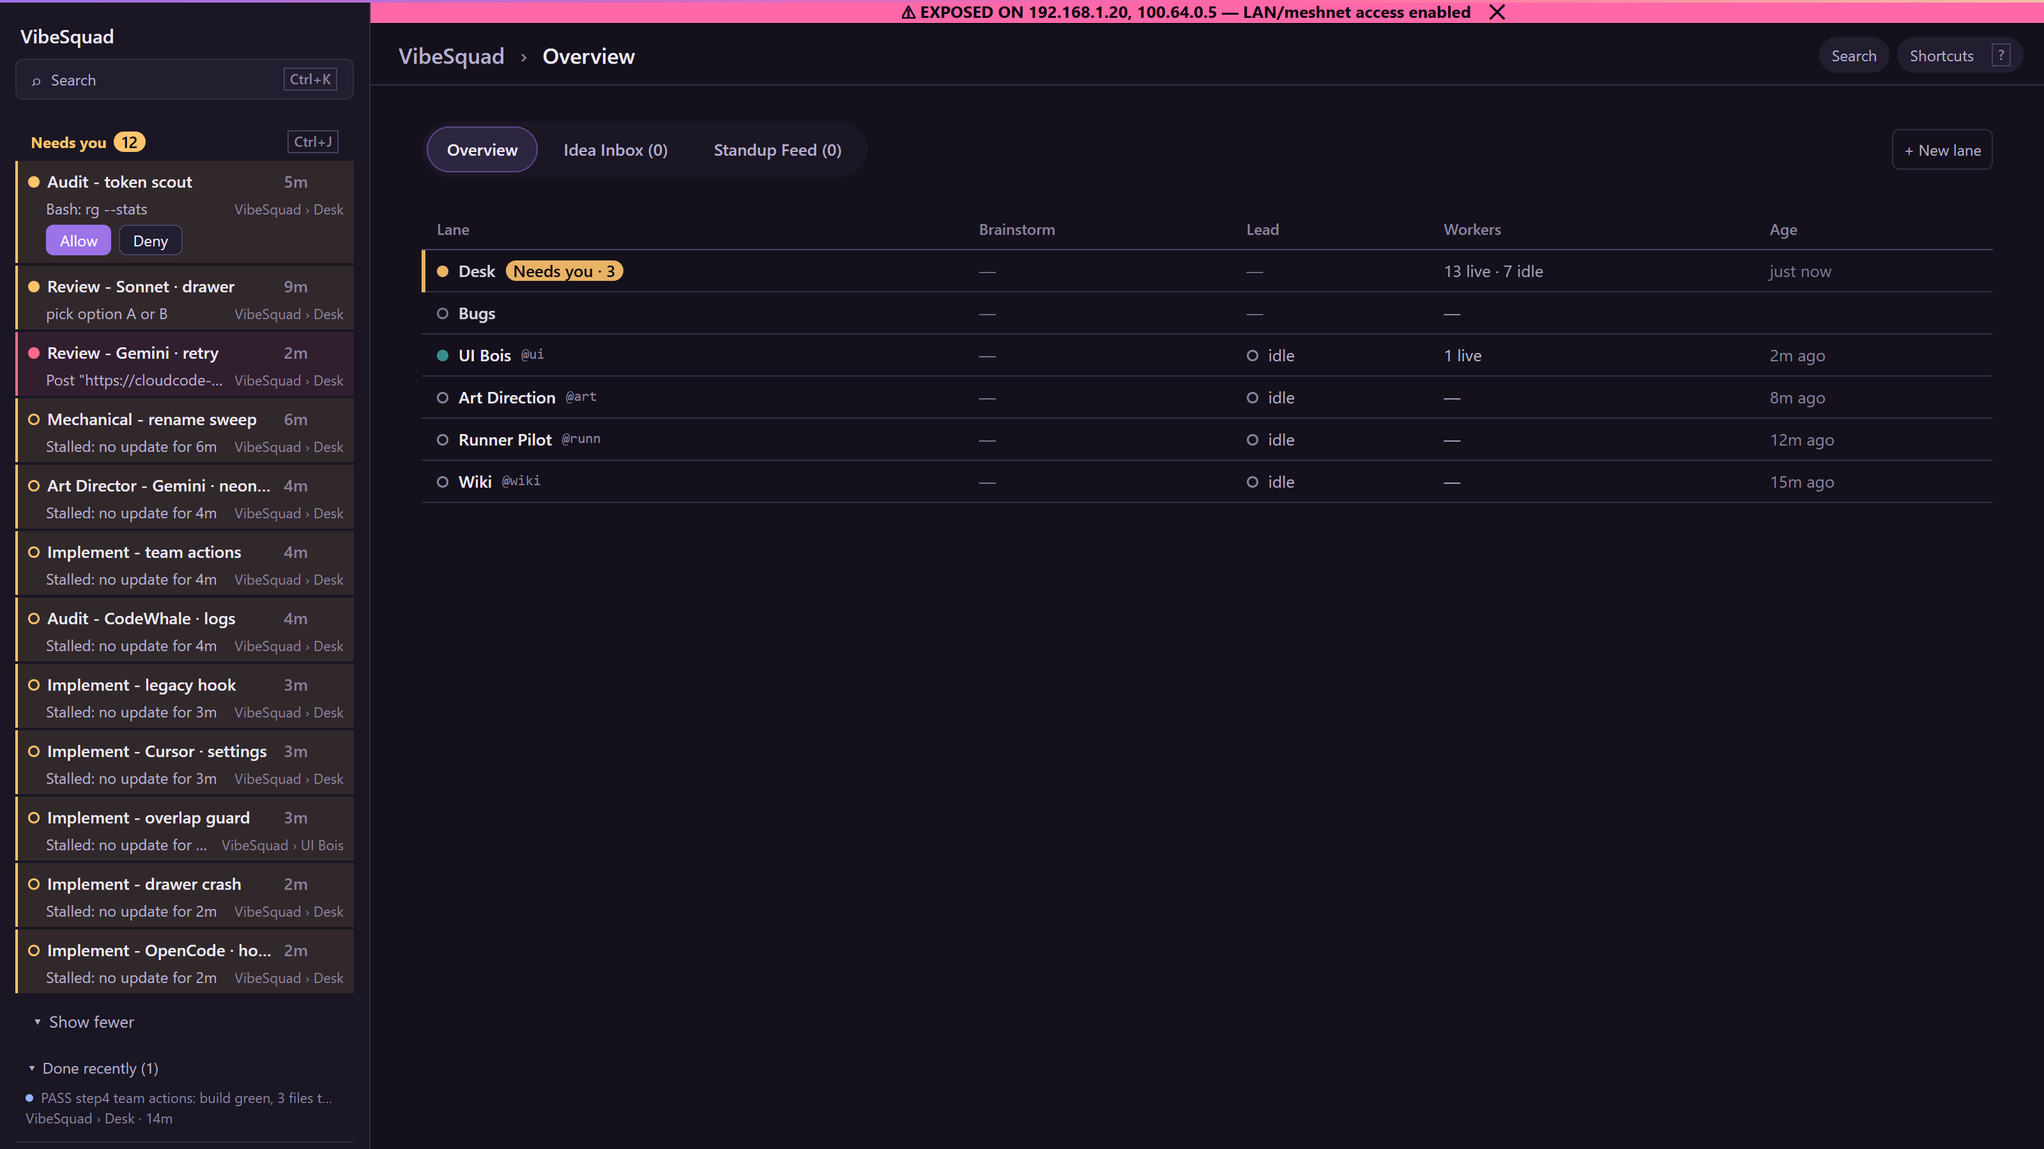
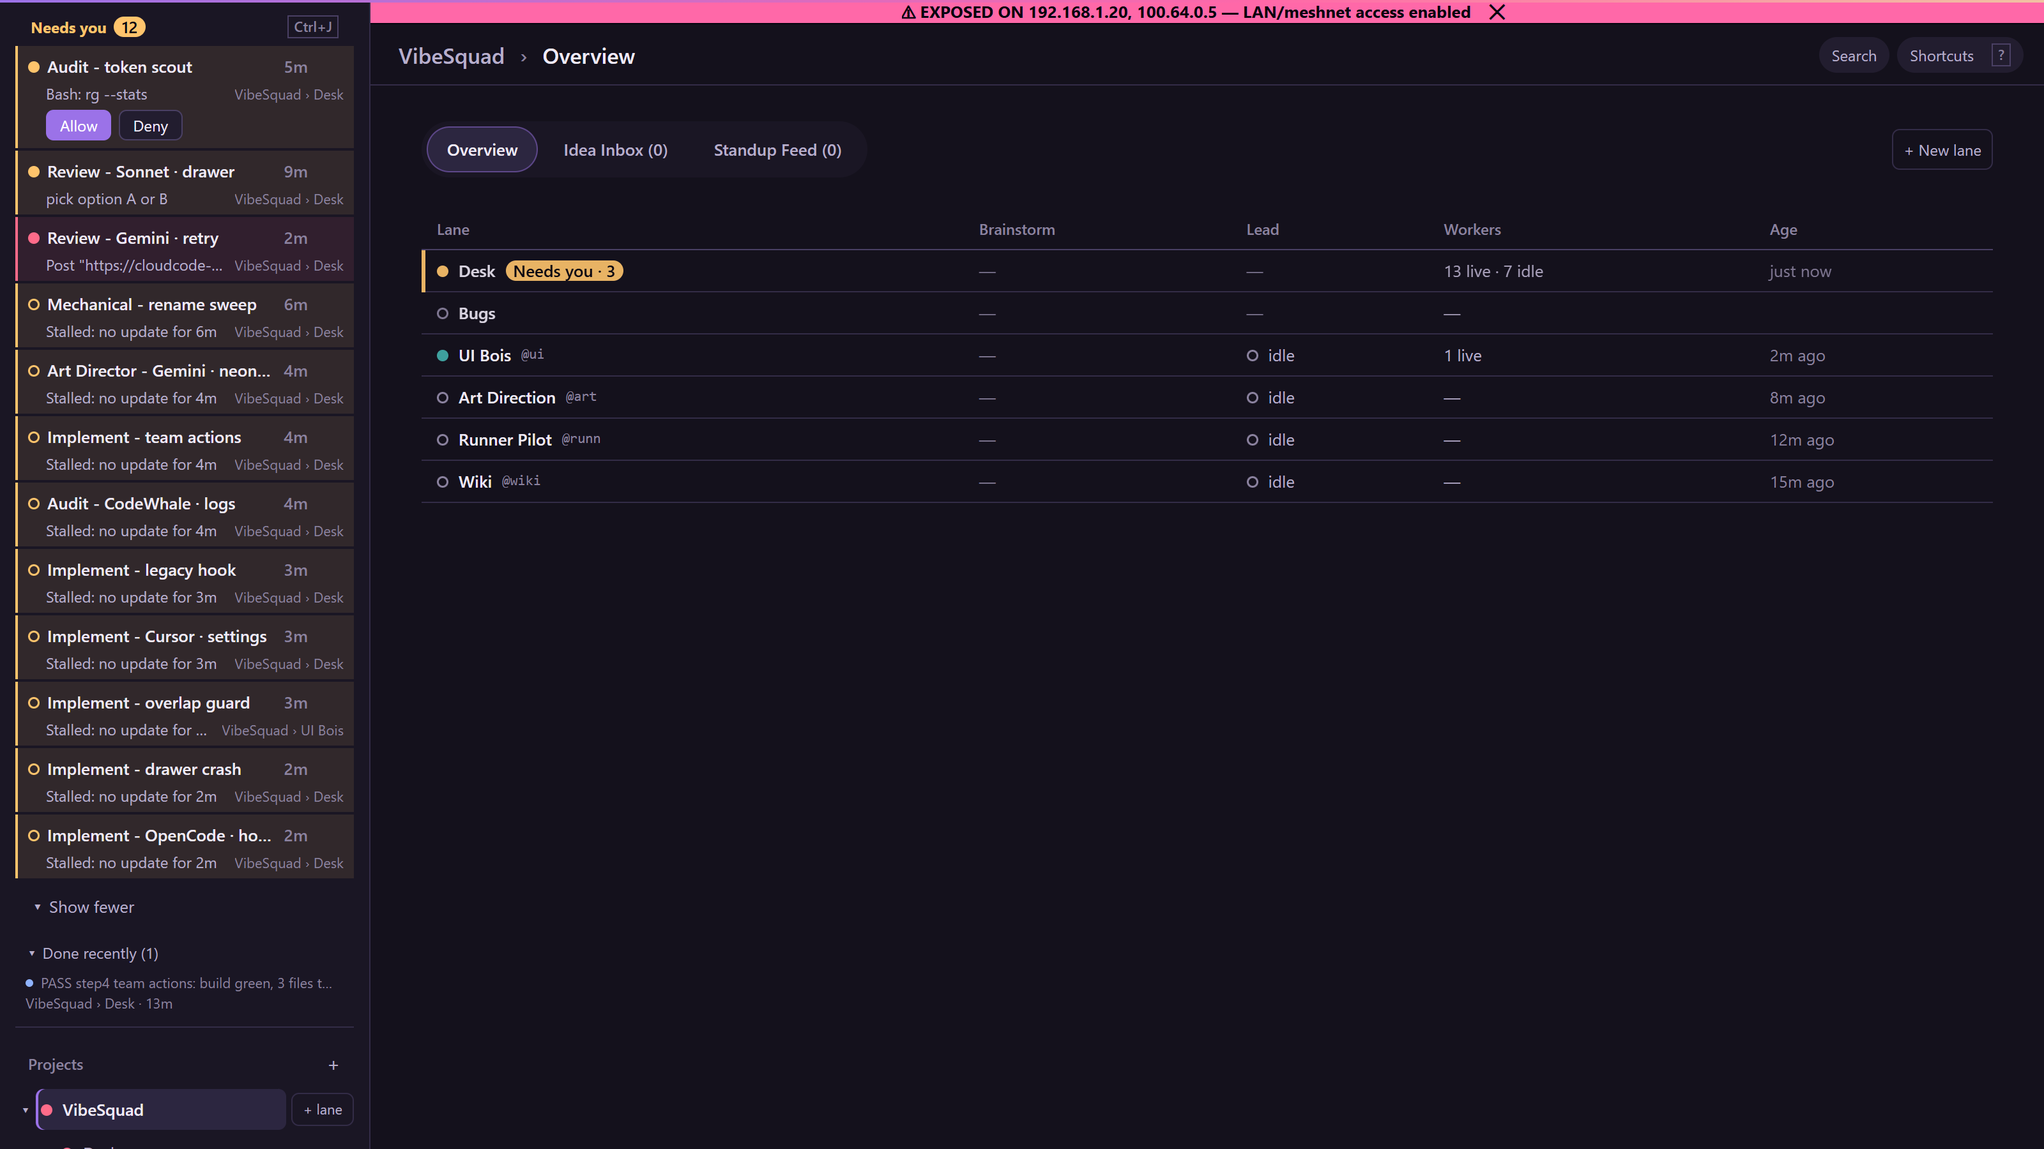
Desk R2 Unit 2 r3: code-review fixes (H2, M2, L1, L2)
- H2: drop regex legacyLeadTitle; needsYouTitle names leads/Buddies via formatDisplayTitle from member
  labels (hub lead = Overlord), falling back to cleanTitle. Tests use the real identity.ts with the
  demo strings "★ MAIN GAME ord75" and "★ LEAD · Plugins".
- M2: stalled dismiss keyed to stalled:<updatedAt>; BoringInbox ticks `now` every 30s.
- L1: project dot uses m.totalNeedsYou like its badge.
- L2: shots expand Desk + a lane (worker reason/tint), hover menu on a non-permission row,
  plus *-crop.png sidebar-only versions.

Changed region(s): [[0.0, 0.0, 0.1562, 0.9956], [0.125, 0.0311, 0.1875, 0.0933]]

diff --git a/src/BoringInbox.tsx b/src/BoringInbox.tsx
@@ -1,9 +1,10 @@
 import { useEffect, useState } from "react";
-import { answerItem, attentionItems, clearItem, formatAge, itemSince, laterItem, legacyLeadTitle, type AttentionDeps, type AttentionItem } from "./attentionItems";
+import { answerItem, attentionItems, clearItem, formatAge, itemSince, laterItem, type AttentionDeps, type AttentionItem } from "./attentionItems";
 import { clearUnreadLocal, dismissLocal, snoozeLocal } from "./attentionLocal";
 import type { FeedEntry } from "./demo";
 import { bumpAgents, clearAgentAttention, clearNeedsYou, snoozeNeedsYou } from "./paseo";
 import { respondToPermission } from "./PermissionCard";
+import { formatDisplayTitle } from "./identity";
 import { boringLocationLane } from "./boringLocation";
 import type { Member, TeamView } from "./teams";
 import { cleanTitle } from "./ui";
@@ -50,6 +51,18 @@ export const NEEDS_YOU_VISIBLE = 5;
 export const RECENT_DONE_VISIBLE = 8;
 const KIND_RANK: Record<AttentionItem["kind"], number> = { permission: 0, label: 1, unread: 1, error: 2, stalled: 3, finished: 4 };
 
+/**
+ * What the row calls the agent. Leads and Buddies are named from their resolved labels with formatDisplayTitle (hub lead = "Overlord",
+ * hub Buddy = "RiffBot", "★ MAIN GAME ord75" = lane code + ord); anything without the labels falls back to cleanTitle ("★ LEAD · Plugins" = "Plugins").
+ */
+export function needsYouTitle(item: Pick<AttentionItem, "who">, member: Pick<Member, "kind" | "agent">, lane: { laneName?: string; laneId?: string; hub?: boolean }): string {
+  const l = (member.agent.labels ?? {}) as Record<string, string>;
+  const fallback = cleanTitle(item.who);
+  if (member.kind === "lead" && (l.ord || lane.hub)) return formatDisplayTitle({ role: "lead", ...lane, ord: l.ord, job: l.job }).replace(/^★s*/, "");
+  if (member.kind === "brainstorm" && lane.hub && !l.topic?.trim()) return formatDisplayTitle({ role: "brainstorm", ...lane });
+  return fallback;
+}
+
 /** Cross-project queue: permission › question/pick (needs-you label, marked unread) › error › stalled › finished; oldest first within a rank. */
 export function needsYouRows(views: TeamView[], now = Date.now()): NeedsYouRow[] {
   const rows: NeedsYouRow[] = [];
@@ -62,7 +75,7 @@ export function needsYouRows(views: TeamView[], now = Date.now()): NeedsYouRow[]
       const lane = boringLocationLane(view.team, member.laneId, view.lanes?.map((l) => l.lane));
       const hub = lane === "Desk";
       const since = itemSince(item);
-      const who = legacyLeadTitle(cleanTitle(item.who), { laneName: laneDef?.name, laneId: member.laneId ?? undefined, hub });
+      const who = needsYouTitle(item, member, { laneName: laneDef?.name, laneId: member.laneId ?? undefined, hub });
       rows.push({ item, member, view, teamId: view.team.id, project: view.team.name, lane, age: formatAge(since, now), since: since ?? Infinity, who });
     }
   }
@@ -85,7 +98,14 @@ export function doneRecently(finished: NeedsYouRow[], logs: DoneLog[], limit = R
   return [...fromAgents, ...fromLog].sort((a, b) => b.ts - a.ts).slice(0, limit);
 }
 
-export function BoringInbox({ views, onOpen, now = Date.now(), logs: injected }: { views: TeamView[]; onOpen: (row: NeedsYouRow) => void; now?: number; logs?: DoneLog[] }) {
+export function BoringInbox({ views, onOpen, now: nowProp, logs: injected }: { views: TeamView[]; onOpen: (row: NeedsYouRow) => void; now?: number; logs?: DoneLog[] }) {
+  const [tick, setTick] = useState(() => Date.now());
+  useEffect(() => {
+    if (nowProp !== undefined) return;
+    const t = setInterval(() => setTick(Date.now()), 30_000);
+    return () => clearInterval(t);
+  }, [nowProp]);
+  const now = nowProp ?? tick;
   const [busy, setBusy] = useState<string | null>(null);
   const [err, setErr] = useState<string | null>(null);
   const [showAll, setShowAll] = useState(false);

diff --git a/src/attentionItems.ts b/src/attentionItems.ts
@@ -3,7 +3,6 @@
 import type { PaseoAgent } from "./agentTypes";
 import { isLocallyHidden, isMarkedUnread } from "./attentionLocal.ts";
 import { BORING_STALL_SECONDS } from "./boringHeaderStrip.ts";
-import { formatDisplayTitle } from "./identity.ts";
 import type { Member } from "./teams.ts";
 
 export const LATER_MS = 2 * 3_600_000;
@@ -46,6 +45,9 @@ export function kindOfAttention(m: Pick<Member, "agent" | "attention">): ItemKin
 
 const ORDER: Record<ItemKind, number> = { permission: 0, label: 1, unread: 2, error: 3, stalled: 4, finished: 5 };
 
+/** Dismissing a stall hides it only until the agent shows new activity (its updatedAt moves). */
+export const stalledSignature = (a: PaseoAgent) => `stalled:${a.updatedAt ?? ""}`;
+
 /** A running agent with nothing pending and no update for BORING_STALL_SECONDS: "Stalled: no update for 5m", else null. */
 export function stalledReason(a: PaseoAgent, now: number): string | null {
   if (a.status !== "running" || a.pendingPermissions?.length) return null;
@@ -67,7 +69,7 @@ export function attentionItems(members: Member[], now?: number): AttentionItem[]
     if (m.kind === "old-lead" || m.agent.archivedAt || m.agent.status === "closed") continue;
     let kind = kindOfAttention(m);
     let reason = m.attention?.reason ?? "";
-    if (!kind && now !== undefined && !m.attention && !isLocallyHidden(m.agent.id, "stalled", now)) {
+    if (!kind && now !== undefined && !m.attention && !isLocallyHidden(m.agent.id, stalledSignature(m.agent), now)) {
       const stalled = stalledReason(m.agent, now);
       if (stalled) (kind = "stalled"), (reason = stalled);
     }
@@ -80,13 +82,6 @@ export function attentionItems(members: Member[], now?: number): AttentionItem[]
     out.push(item);
   }
   return out.sort((a, b) => ORDER[a.kind] - ORDER[b.kind]);
-}
-
-/** Legacy v1 lead titles ("Lead · ord75", "★ lead · ord75") read as the current name: "Overlord" on the hub, else the lane code + ord. */
-export function legacyLeadTitle(who: string, lane: { laneName?: string; laneId?: string; hub?: boolean }): string {
-  const m = /^(?:(?:★\s*)?(?:lead\s*·\s*)?|★\s*[^·]+?\s+)ord(\d+)\s*(?:·\s*(.+))?$/i.exec(who.trim());
-  if (!m) return who;
-  return formatDisplayTitle({ role: "lead", laneName: lane.laneName, laneId: lane.laneId, ord: m[1], job: m[2], hub: lane.hub }).replace(/^★\s*/, "");
 }
 
 /** When this item started needing the owner: the `needs-you-at` stamp (label items), else the agent's last update. */
@@ -129,7 +124,7 @@ export async function clearItem(item: AttentionItem, d: AttentionDeps): Promise<
       d.clearUnreadLocal(item.id);
       return d.refresh();
     case "stalled":
-      d.dismissLocal(item.id, "stalled");
+      d.dismissLocal(item.id, stalledSignature(item.agent));
       return d.refresh();
     case "error":
     case "finished":

diff --git a/src/BoringAde.tsx b/src/BoringAde.tsx
@@ -695,7 +695,7 @@ export function BoringApp({ views, view, onSelectSquad, onOpenPin, onSpinUpPin, 
                 <div className="boring-conv-line boring-project-line">
                   {chevronCol(open, () => toggleProject(v.team.id), v.team.name, `boring-project-toggle-${v.team.id}`)}
                   <button type="button" className={projectRowCls} data-testid={`boring-project-header-${v.team.id}`} aria-expanded={open} onClick={() => openProject(v.team.id)}>
-                    <span className={`boring-dot ${(v.running ?? 0) > 0 ? "running" : "idle"} ${glyphCls((v.running ?? 0) > 0 ? "running" : "idle", m.projectErr ? "error" : (v.needsYou ?? 0) > 0 ? "needs-you" : null)}`} />
+                    <span className={`boring-dot ${(v.running ?? 0) > 0 ? "running" : "idle"} ${glyphCls((v.running ?? 0) > 0 ? "running" : "idle", m.projectErr ? "error" : m.totalNeedsYou > 0 ? "needs-you" : null)}`} />
                     <span className="boring-project-name">{v.team.name}</span>
                     {!open && badge(m.totalNeedsYou, m.projectErr)}
                   </button>

diff --git a/docs/shots/desk-r2-needs-you/REVIEW_code_r1.md b/docs/shots/desk-r2-needs-you/REVIEW_code_r1.md
@@ -1,0 +1,94 @@
+# Code Review · `unit-desk-r2-needs-you` (`f32e7e8`)
+
+**Verdict:** `FAIL 2/2/2 f32e7e8` (2 High, 2 Medium, 2 Low)
+**Branch / Commit:** `unit-desk-r2-needs-you` @ `f32e7e8` (`git diff master..f32e7e8`)
+**Spec:** `docs/PLAN_DESK_R2_SIDEBAR.md` (Unit 2), `docs/UX_REVIEW_R2.md` (R2.4, R2.7), `docs/lanes/desk/SPEC.md` (rule 5)
+
+## Verification Run
+- `npx tsc --noEmit`: PASS (exit 0)
+- `node --test test/boring-mode.test.mjs test/attention-items.test.mjs test/css-classes.test.mjs test/clear-attention.test.mjs test/squad-queue.test.mjs`: PASS (101/101 tests)
+- Viewed all 6 screenshots in `docs/shots/desk-r2-needs-you/`:
+  - `needs-you-dark-expanded.png`
+  - `needs-you-dark-hover-menu.png`
+  - `needs-you-dark-sidebar.png`
+  - `needs-you-light-expanded.png`
+  - `needs-you-light-hover-menu.png`
+  - `needs-you-light-sidebar.png`
+
+---
+
+## Findings
+
+### High
+
+1. **[H1] Hub / Squad-id lane items still render `"VibeSquad › VibeSquad"` (and `"VibeSquad › vibesquad"` in `Done recently`, `"VibeSquad › ui-bois"` on dynamic lanes) in all 6 screenshots (`src/BoringInbox.tsx:59-61, 82`)**
+   - In `needsYouRows` (`src/BoringInbox.tsx:59-61`):
+     ```tsx
+     const laneDef = view.team.lanes.find((l) => l.id === member.laneId);
+     const hub = laneDef ? isHubLane(view.team, laneDef) : !member.laneId;
+     const lane = hub ? "Desk" : laneDef?.name ?? member.laneId ?? "Desk";
+     ```
+     - In `src/BoringAde.tsx:79, 180, 202`, any lane whose `id === view.team.id` is folded into the project's `Desk` (`!isHubPin(p) && p.lane.id === view?.team.id`). However, `BoringInbox.tsx:60` only checks `laneDef ? isHubLane(view.team, laneDef) : !member.laneId`. When a Squad has an explicit `hub: true` lane alongside a Squad-id lane (e.g., `scripts/ui-overlap/env.mjs:20-21` has `{ id: "riffbot", hub: true }` and `{ id: "vibesquad", name: "VibeSquad" }`), `isHubLane(view.team, laneDef)` returns `false` for `id: "vibesquad"`; and when `member.laneId === view.team.id` is not in `view.team.lanes`, `!member.laneId` is also `false`.
+     - As a result, **every VibeSquad Desk item in all 6 screenshots (`docs/shots/desk-r2-needs-you/*.png`) still displays `VibeSquad › VibeSq...` (`VibeSquad › VibeSquad`) instead of `VibeSquad › Desk`**, directly failing `docs/UX_REVIEW_R2.md` R2-7 and the Unit 2 done-check (`docs/PLAN_DESK_R2_SIDEBAR.md:34, 57`).
+     - Additionally, `view.team.lanes.find(...)` (`src/BoringInbox.tsx:59`) searches only static `view.team.lanes` instead of `view.lanes` (`view.lanes.find((l) => l.lane.id === member.laneId)?.lane`) and does not format with `boringLaneLabel`. Dynamic lanes like `ui-bois` in `?demo` fall back to raw `member.laneId`, rendering `VibeSquad › ui-bois` on row 9 of `needs-you-{dark,light}-expanded.png` while the sidebar tree renders `UI Bois`.
+     - In `doneRecently` (`src/BoringInbox.tsx:82`), `fromLog` formats `where` as `` `${d.project}${d.entry.lane ? ` › ${d.entry.lane}` : ""}` `` without mapping hub / Squad-id lanes (`d.entry.lane === d.teamId` or `isHubLane`) to `"Desk"`. In all 6 screenshots, `Done recently (1)` displays `VibeSquad › vibesquad · 14m` instead of `VibeSquad › Desk · 14m`.
+
+2. **[H2] Legacy v1 lead titles (`"★ MAIN GAME ord75"`, `"★ LEAD · Plugins"`) are not cleaned, and `legacyLeadTitle` adds a new regex cleaner that misses the v1 format (`src/attentionItems.ts:86-90`, `src/BoringInbox.tsx:63`)**
+   - `docs/UX_REVIEW_R2.md` R2-10 (`line 43`) and R2.7 (`line 106`) require cleaning raw legacy titles in `Needs you` — specifically `"★ MAIN GAME ord75"` (`src/demo.tsx:91`, matching `legacyTitleFor` `★ ${LANE} ord${l.ord}` at `src/teams.ts:1214`) and `"★ LEAD · Plugins"` (`src/demo.tsx:96`) — using the existing `formatDisplayTitle` / `cleanTitle` helpers (no new cleaner).
+   - Instead, `src/attentionItems.ts:86-90` introduces a new regex function `legacyLeadTitle`:
+     ```ts
+     export function legacyLeadTitle(who: string, lane: { laneName?: string; laneId?: string; hub?: boolean }): string {
+       const m = /^(?:★\s*)?(?:lead\s*·\s*)?ord(\d+)\s*(?:·\s*(.+))?$/i.exec(who.trim());
+       if (!m) return who;
+       return formatDisplayTitle({ role: "lead", laneName: lane.laneName, laneId: lane.laneId, ord: m[1], job: m[2], hub: lane.hub }).replace(/^★\s*/, "");
+     }
+     ```
+   - For `"★ MAIN GAME ord75"`, `cleanTitle("★ MAIN GAME ord75")` returns `"★ MAIN GAME ord75"`, and `legacyLeadTitle`'s regex fails to match because the lane name (`MAIN GAME`) sits between `★` and `ord75`, returning `"★ MAIN GAME ord75"` untouched.
+   - For `"★ LEAD · Plugins"`, `cleanTitle("★ LEAD · Plugins")` strips `"★ lead · "` to `"Plugins"`, which also does not match `legacyLeadTitle`, leaving the lane name `"Plugins"` as `who`.
+   - In `needsYouRows` (`src/BoringInbox.tsx:57-64`), `member` is already resolved (`member.kind`, `member.agent.labels`), so lead titles can be formatted via the existing `formatDisplayTitle` (`src/identity.ts:591`) / `cleanTitle` (`src/ui.tsx:56`) without adding a separate cleaner in `src/attentionItems.ts`.
+
+### Medium
+
+1. **[M1] `Done recently` log entries stack `.boring-dot.st-done` on a separate line above the text (`src/boring.css:1186-1187`, `src/BoringInbox.tsx:191-195`)**
+   - Non-agent log rows (`src/BoringInbox.tsx:191-195`) render `<span className="boring-dot st-done" />` and `<span className="boring-done-text">{d.text}</span>` as direct children of `<li className="boring-done-row">`.
+   - `src/boring.css:1186-1187` overrides `.boring-done-row` (previously `grid-template-columns: auto 1fr` at `src/boring.css:921`) with:
+     ```css
+     html[data-vibe="boring"] .boring-done-row { grid-template-columns: 1fr auto; }
+     html[data-vibe="boring"] .boring-done-row > .boring-dot, html[data-vibe="boring"] .boring-done-row > .boring-done-text { grid-column: 1; }
+     ```
+   - Assigning both direct child spans to `grid-column: 1` places `.boring-dot` on row 1 and `.boring-done-text` on row 2. In all 6 screenshots (`docs/shots/desk-r2-needs-you/*.png`), the blue `.st-done` dot under `▾ Done recently (1)` sits on its own blank line above `PASS step4 team actions: build green, 3 files tou...`.
+
+2. **[M2] Dismissing a `stalled` item records a static `"stalled"` signature in `dismissLocal`, permanently suppressing future stalls for that agent (`src/attentionItems.ts:70, 131-133`, `src/attentionLocal.ts:85-88, 105-109`)**
+   - `dismissLocal(id, signature)` / `isLocallyHidden(id, signature, now)` (`src/attentionLocal.ts:85-109`) suppresses an item until its `signature` changes.
+   - `src/attentionItems.ts:70` checks `!isLocallyHidden(m.agent.id, "stalled", now)` and `clearItem` (`line 132`) calls `d.dismissLocal(item.id, "stalled")` with the constant literal `"stalled"` instead of keying the signature to the agent's last activity timestamp (e.g., `stalled:${m.agent.updatedAt ?? ""}`).
+   - Once a user dismisses a stalled agent once, `dismissed.get(agent.id) === "stalled"` stays true in `localStorage` even after the agent resumes work, updates `updatedAt`, and stalls again later.
+   - Also, `BoringInbox` (`src/BoringInbox.tsx:86`: `now = Date.now()`) has no periodic timer (`setInterval`) to advance `now` (unlike `SquadQueue.tsx:88-91` and `BoringAgentHeader.tsx`), so a running agent that goes silent for 90s+ will not transition into `stalled` until an unrelated re-render occurs.
+
+### Low
+
+1. **[L1] Project row dot in `BoringAde.tsx` checks `(v.needsYou ?? 0) > 0` instead of `m.totalNeedsYou > 0` (`src/BoringAde.tsx:701, 703`)**
+   - `src/BoringAde.tsx:701` computes the project dot tone with `m.projectErr ? "error" : (v.needsYou ?? 0) > 0 ? "needs-you" : null`, while line 703 renders `badge(m.totalNeedsYou, m.projectErr)`. Using `m.totalNeedsYou > 0` keeps the dot and collapsed badge consistent.
+
+2. **[L2] Screenshot coverage gaps in `docs/shots/desk-r2-needs-you/`**
+   - Neither `Desk` nor `UI Bois` is expanded in `needs-you-{dark,light}-sidebar.png`, so the new sidebar worker attention reason (`boring-worker-why`) and row tints (`.needs-attn`, `.needs-err`) are not shown in any screenshot.
+   - `needs-you-{dark,light}-hover-menu.png` opens the `⋯` menu on a `permission` row (`Audit - token scout`), which only shows `Snooze 2h` and does not show the `Dismiss` menu item on non-permission rows.
+
+---
+
+## Checklist Summary
+
+| Check | Status | Notes |
+|---|---|---|
+| `Needs you` count == rows listed | PASS | `rows = all.filter((r) => r.item.kind !== "finished")`; `boring-needs-you-count` uses `rows.length` (`src/BoringInbox.tsx:103, 132`). |
+| Cap 5 + `+ N more` | PASS | `NEEDS_YOU_VISIBLE = 5`; `boring-needs-you-more` toggles `▾ Show fewer` / `▸ + N more` (`src/BoringInbox.tsx:47, 105, 169-173`). |
+| `finished` moved to `Done recently` | PASS | `finished` items merge into `doneRecently()` alongside `done` log entries (`src/BoringInbox.tsx:80-84, 104-106`). Log entries have a grid layout bug (**M1**). |
+| Buttons only on permission rows; hover `⋯` Snooze/Dismiss keyboard-reachable | PASS | Inline `Allow`/`Deny` only when `item.kind === "permission" && item.quickPermission`; hover/focus-within `⋯` menu has `Snooze 2h` and (for non-permission rows) `Dismiss` (`src/BoringInbox.tsx:113-127, 158-163`, `src/boring.css:1174-1185`). |
+| Hub location reads `Desk` | **FAIL** | Squad-id lane (`id === team.id`) when another lane has `hub: true` and `Done recently` log entries still render `VibeSquad › VibeSquad` / `VibeSquad › vibesquad` in all 6 screenshots (**H1**). |
+| Legacy titles cleaned via existing `formatDisplayTitle`/`cleanTitle` (no new cleaner) | **FAIL** | Added new `legacyLeadTitle` regex in `src/attentionItems.ts:86-90`, which fails to match v1 `"★ MAIN GAME ord75"` and `"★ LEAD · Plugins"` (**H2**). |
+| `stalled` kind in `src/attentionItems.ts` with nothing downstream broken | PARTIAL | Opt-in via `now` parameter keeps badge/queue callers (`pins.ts`, `SquadQueue.tsx`, `AttentionList.tsx`) unbroken (`KIND_LABEL.stalled` added in `AttentionList.tsx:39`), but `dismissLocal` uses a static `"stalled"` signature (**M2**). |
+| Worst-state `glyphCls` on container dots | PASS | Lane (`c.err ? "error" : ...`) and project (`m.projectErr ? "error" : ...`) dots use worst-state `glyphCls` (`src/BoringAde.tsx:618, 701`; minor `v.needsYou` vs `m.totalNeedsYou` note in **L1**). |
+| CSS only under `html[data-vibe="boring"]`, append-only, no new `@media` | PASS | `src/boring.css:1165-1197` is append-only, all 32 rules scoped under `html[data-vibe="boring"]`, 0 `@media` rules. |
+| `data-testid` contracts kept | PASS | All existing testids preserved (`boring-needs-dismiss` remains in DOM inside the menu for non-permission rows). |
+
+## Cause-vs-Symptom Gate
+- **Does this fix the cause or hide the symptom?** The separation of `finished` into `doneRecently()` and the 2-line row restructure address the root cause of R2-4/R2-5/R2-6, but the incomplete hub-lane detection (`BoringInbox.tsx:59-61, 82` disagreeing with `BoringAde.tsx:79, 180, 202` — **H1**), the custom regex in `legacyLeadTitle` that misses v1 lead titles (**H2**), the broken CSS grid placement on `Done recently` log items (**M1**), and the non-expiring `"stalled"` dismissal signature (**M2**) must be fixed before merge.
